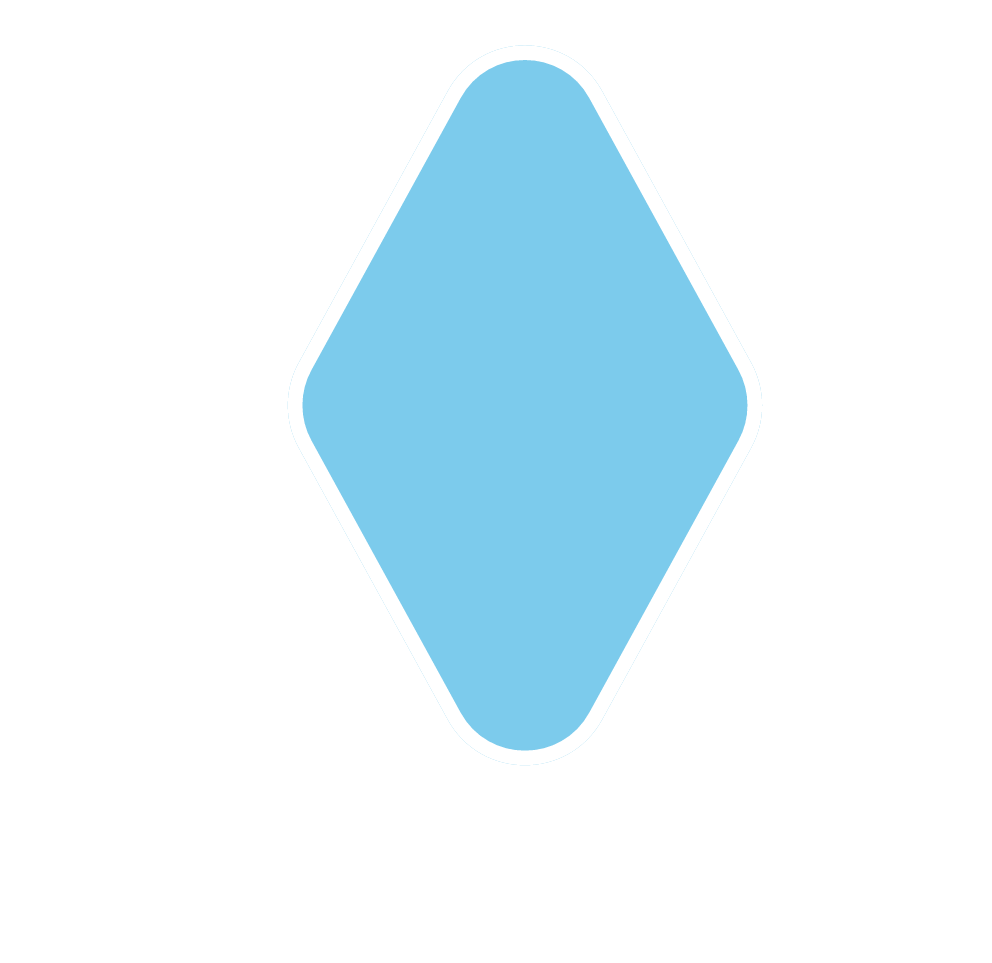
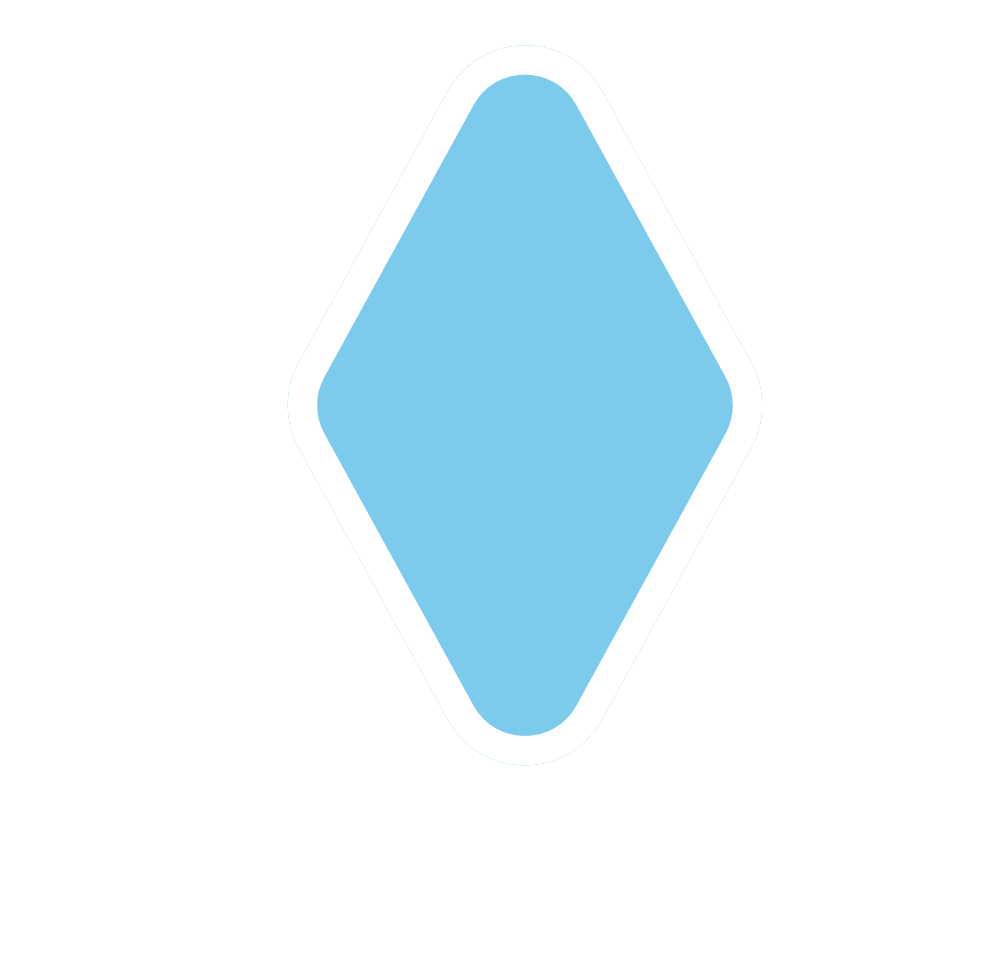
Fix Thundurus splitting into 5 pieces; fit long gen numerals
Thundurus draws its diamond and cloud twice (same-named layer copies in
Figma), so it split into five pieces. build-pieces now merges same-named
layers into one piece when a Pokémon has more than three layers — not at
three or fewer, where Graveler has two distinct layers sharing a name.

The gen chip's numeral overflowed its box for VIII; III and VII now render
at 10px and VIII at 8px, each with ~3px of margin.

Changed region(s): [[0.3438, 0.0623, 0.7812, 0.7788], [0.2812, 0.3427, 0.3438, 0.4984]]

diff --git a/src/components/GenHint.tsx b/src/components/GenHint.tsx
@@ -2,6 +2,13 @@ import { useState } from 'react'
 import hideIcon from '../resources/images/assets/Hide.svg'
 import { genLabel, genNumeral } from '../game/pokemon'
 
+// Font size by numeral length (III, VII → 10px; VIII → 8px), each leaving
+// ~3px of ink either side in Pokemon Classic.
+const NUMERAL_SIZE: Record<number, string> = {
+  3: 'text-[0.625rem]',
+  4: 'text-[0.5rem]',
+}
+
 interface Props {
   gen: number
   /** Starts revealed — the player already opened it earlier today. */
@@ -38,7 +45,11 @@ export function GenHint({ gen, initiallyShown, onReveal }: Props) {
       <span>Gen</span>
       <span className="flex h-full w-9 items-center justify-center bg-ink text-paper">
         {shown ? (
-          genNumeral(gen)
+          // Longer numerals step the font down to fit the 36px box: at the
+          // chip's 12px, VIII measures 45px and VII leaves no margin.
+          <span className={NUMERAL_SIZE[genNumeral(gen).length] ?? ''}>
+            {genNumeral(gen)}
+          </span>
         ) : (
           // The designer's eye-slash, recoloured from maroon to the paper
           // tone (#dddddd: 221/255 ≈ invert(0.867)) to read on the ink box.
